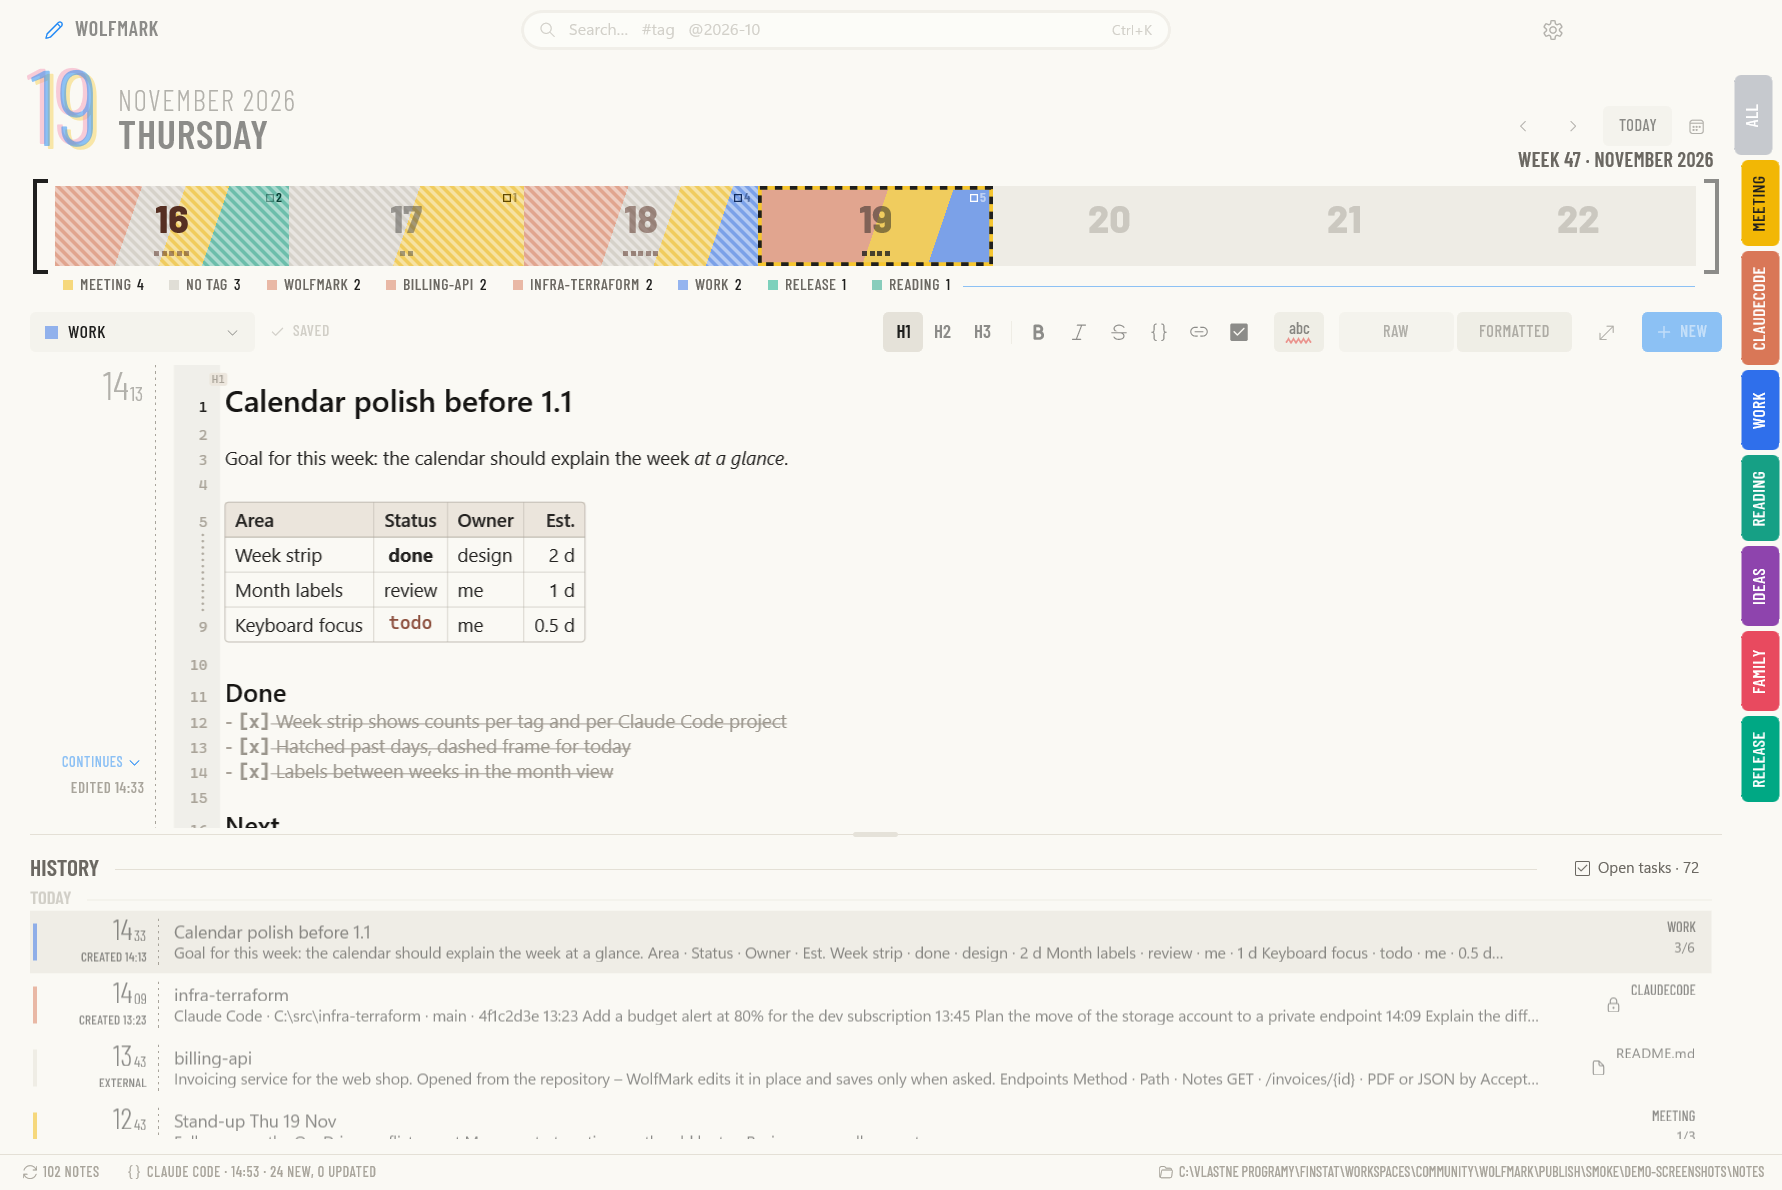
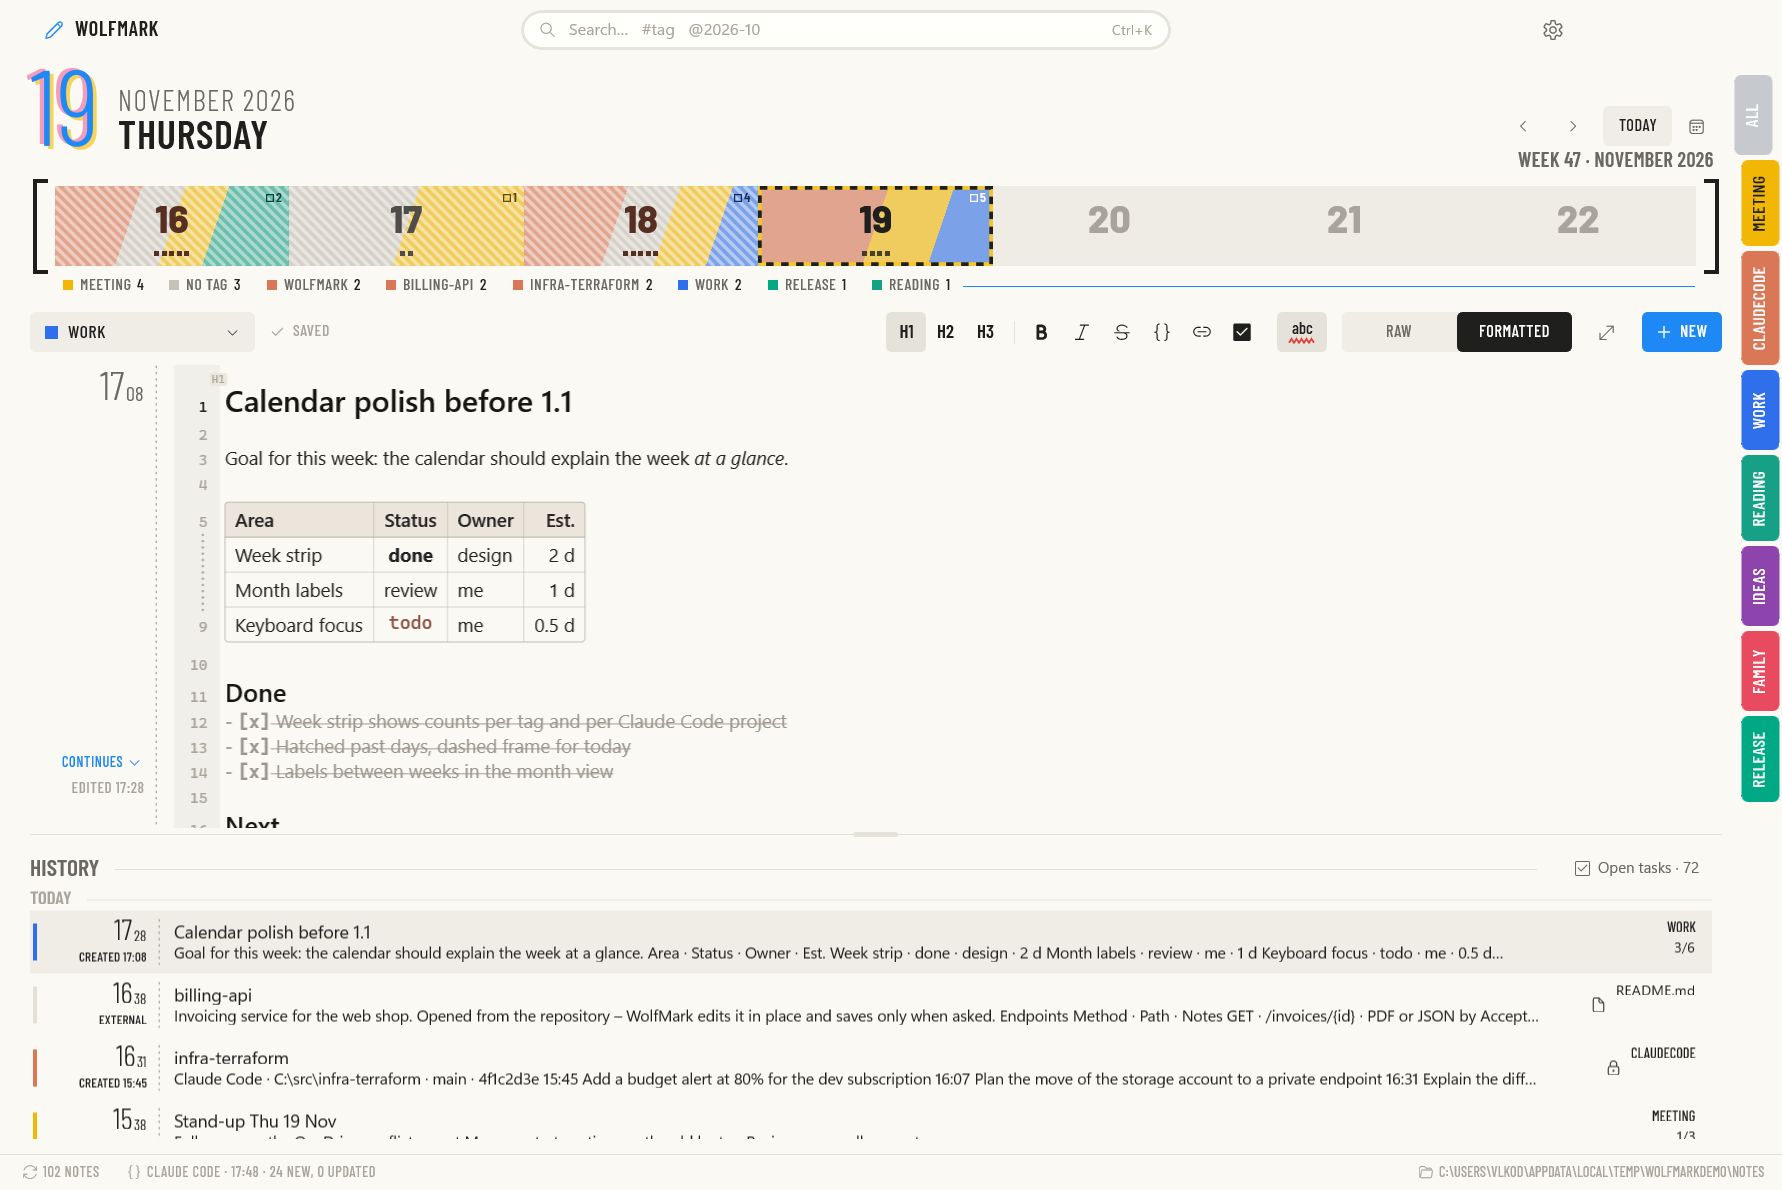
Screenshots retaken after the hatching fix; open tasks and Android in the READMEs
docs/screenshots: retaken on Windows with version 0.9.0 – past-day numbers
in their full colour, the hatching drawn as lines, the joined RAW/FORMATTED
switch; open-tasks.png is new.
README: an "Open tasks" entry with its screenshot.
android/README: four screens of the Android app (week, month, a note
alone, dark theme), drawn by the Roborazzi tests on demo notes, in
docs/screenshots/android.

diff --git a/android/README.md b/android/README.md
@@ -11,6 +11,24 @@ A share target and a read-only viewer for the notes WolfMark keeps in OneDrive.
   with two fingers to change its text size. A copy is kept on the phone for reading without a connection. The app
   never changes or deletes a note.
 
+<table>
+<tr>
+<td><img src="../docs/screenshots/android/week-light.png" alt="The week band, the open note and the history" width="210"></td>
+<td><img src="../docs/screenshots/android/month.png" alt="The month with the history under it" width="210"></td>
+<td><img src="../docs/screenshots/android/note-only.png" alt="A note alone, rendered Markdown" width="210"></td>
+<td><img src="../docs/screenshots/android/week-dark.png" alt="The dark theme" width="210"></td>
+</tr>
+<tr>
+<td align="center">Week, note and history</td>
+<td align="center">Month</td>
+<td align="center">A note alone</td>
+<td align="center">Dark theme</td>
+</tr>
+</table>
+
+The pictures are drawn by the tests on demo notes (`./gradlew :app:testDebugUnitTest -Pscreenshots`, no device
+needed) and kept in [`docs/screenshots/android`](../docs/screenshots/android).
+
 Design and rejected alternatives: [`docs/adr/0017-android-share-lan-onedrive.md`](../docs/adr/0017-android-share-lan-onedrive.md),
 SPEC §4.8.
 

diff --git a/README.md b/README.md
@@ -209,6 +209,12 @@ it had before, without the changes made while portable. Details are in
 - **Search** (`Ctrl+K`): full-text over titles and bodies with diacritics-insensitive matching, `#tag` and
   `@YYYY-MM` filters, results ranked with BM25. (Semantic search over embeddings is prepared in the index but no
   model ships yet – see the roadmap.)
+- **Open tasks**: the *Open tasks* switch above the history turns it into the list of what is left to do – every
+  unfinished `- [ ]` of the notebook under its note, narrowed by the tag and day you picked. The box ticks a task off
+  right there, its text opens the note with the caret on that line, and the day cells of the calendar show how many
+  are open.
+
+  ![Open tasks listed under their notes](docs/screenshots/open-tasks.png)
 - **Editor**: formatted mode hides Markdown markers outside the current line, checkboxes are clickable; raw mode
   keeps the markers visible but muted. Highlighting runs incrementally in the background and never blocks typing.
   Quote, lists, task and code apply to every selected line (code over several lines becomes a fenced block).
